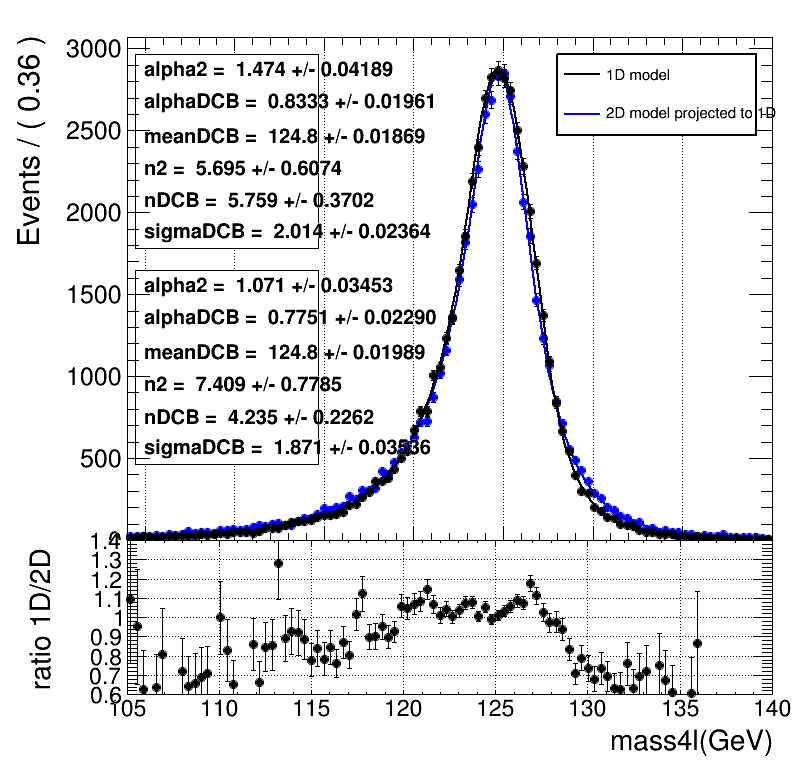
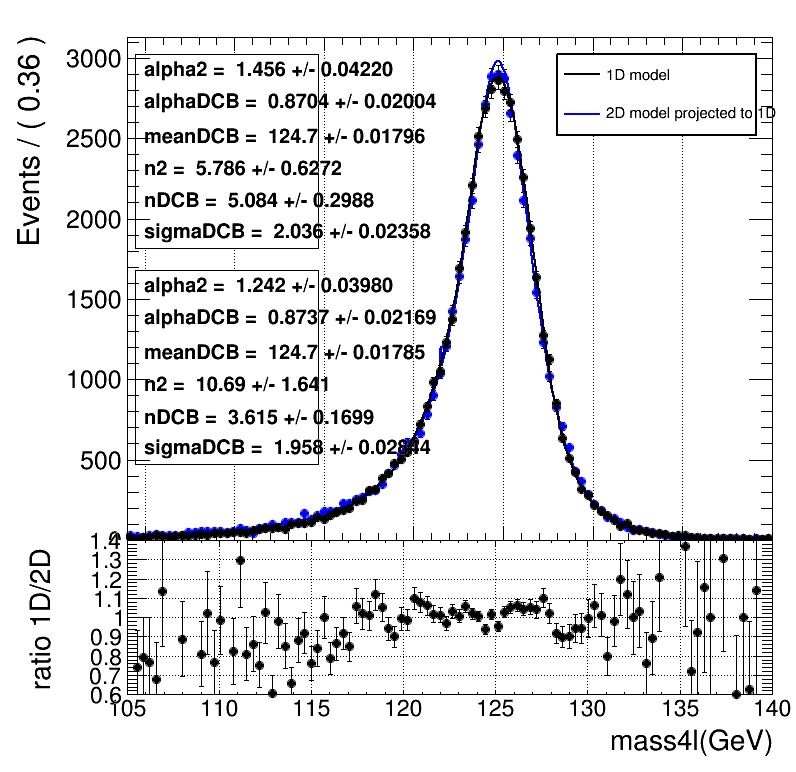
work for 2015D double muon dataset

diff --git a/compare1D2DModel/compare_1D_2D_mass4l.py b/compare1D2DModel/compare_1D_2D_mass4l.py
@@ -26,8 +26,8 @@ CMS_zz4l_mass = RooRealVar('CMS_zz4l_mass','CMS_zz4l_mass',104,140)
 CMS_zz4l_massErr = RooRealVar('CMS_zz4l_massErr','CMS_zz4l_massErr',0,0.1)
 #w = RooWorkspace("w")
 
-for m4lType in ['refit']:#, 'reco']:
-    for fs in ['2e2mu']:#,'4e']:#, '4mu']:
+for m4lType in ['refit', 'reco']:
+    for fs in ['4mu','2e2mu','4e']:
 
 #        path = '/raid/raid9/mhl/HZZ4L_Run2/HZZ4L/PereventMassErrCorr_2016ICHEP/Mass_ICHEP2016/CreateDatacards_Moriond2016_JES_v0_dev_ZJetsOn_10fb_1_ggHOnly_relativeError/'
 #        path = '/raid/raid9/mhl/HZZ4L_Run2/HZZ4L/PereventMassErrCorr_2016ICHEP/getCorrection_ICHEP2016/toyStudy_test/STEP4_getMass_asimov_runOnIHEPA/'
@@ -73,10 +73,10 @@ for m4lType in ['refit']:#, 'reco']:
 
         dcb.fitTo(m4ldata1D)
 #        dcb.plotOn(mass4lFrame, RooFit.LineColor(2), RooFit.LineWidth(2))
-        dcb.paramOn(mass4lFrame, RooFit.Layout(0.17, 0.4, 0.9), RooFit.Format("NE", RooFit.FixedPrecision(4)), RooFit.Parameters(RooArgSet(w.var('meanDCB'))))
+        dcb.paramOn(mass4lFrame, RooFit.Layout(0.17, 0.4, 0.9), RooFit.Format("NE", RooFit.FixedPrecision(4)) )
         dcb.fitTo(m4ldata2D)
 #        dcb.plotOn(mass4lFrame, RooFit.LineColor(5), RooFit.LineWidth(2))
-        dcb.paramOn(mass4lFrame, RooFit.Layout(0.17, 0.4, 0.5), RooFit.Format("NE", RooFit.FixedPrecision(4)), RooFit.Parameters(RooArgSet(w.var('meanDCB'), w.var('sigmaDCB'))))
+        dcb.paramOn(mass4lFrame, RooFit.Layout(0.17, 0.4, 0.5), RooFit.Format("NE", RooFit.FixedPrecision(4)) )
 
 ###
         c1 = TCanvas('c1', '', 800, 800)

diff --git a/ZClosure/doAllClosure_mZ.py b/ZClosure/doAllClosure_mZ.py
@@ -53,7 +53,7 @@ def doAllClosure(fs, plotPath, Z_width, plotBinInfo, singleCB_tail, pTErrCorrect
 
 #plotBinInfo = '100 80 100'
 plotBinInfo = '300 60 120'
-plotpath = '/home/mhl/public_html/2016/20161226_eCorr_2015/fitmassZ/'
+plotpath = '/home/mhl/public_html/2017/20170111_2015data_ptErrCorr_mu_0_0p9_1p8_2p2_2p4/'
 
 singleCB_tail_mu = '1.583 1.086' #first is alpha, second is n of singleCB
 singleCB_tail_e = '1.1443 2.5964' #first is alpha, second is n of singleCB
@@ -65,8 +65,8 @@ pTErrCorrections_e = '1.245 1.140 1.077 1.178'
 #ZWidth = 2.37
 ZWidth = 2.49
 
-#doAllClosure('2mu', plotpath, ZWidth, plotBinInfo, singleCB_tail_mu, pTErrCorrections_mu)
-doAllClosure('2e', plotpath, ZWidth, plotBinInfo, singleCB_tail_e, pTErrCorrections_e)
+doAllClosure('2mu', plotpath, ZWidth, plotBinInfo, singleCB_tail_mu, pTErrCorrections_mu)
+#doAllClosure('2e', plotpath, ZWidth, plotBinInfo, singleCB_tail_e, pTErrCorrections_e)
 #doAllClosure('2e', plotpath, ZWidth, plotBinInfo, doubleCB_tail_e, pTErrCorrections_e)
 
 

diff --git a/HClosure/doAllClosure_H.py b/HClosure/doAllClosure_H.py
@@ -8,7 +8,8 @@ def doAllClosure(fs, filename, plotpath, doubleCB_tail, doREFIT):
        mass4lErr_bins = [0,0.007]
        nDiv = 8
        for i in range(nDiv):
-           mass4lErr_bins.append(mass4lErr_bins[-1]+(0.02-0.007)/nDiv)
+           mass4lErr_bins.append(mass4lErr_bins[-1]+(0.018-0.007)/nDiv)
+#           mass4lErr_bins.append(mass4lErr_bins[-1]+(0.02-0.007)/nDiv)
        mass4lErr_bins.append(1)
     else:
        mass4lErr_bins = [0,0.009]
